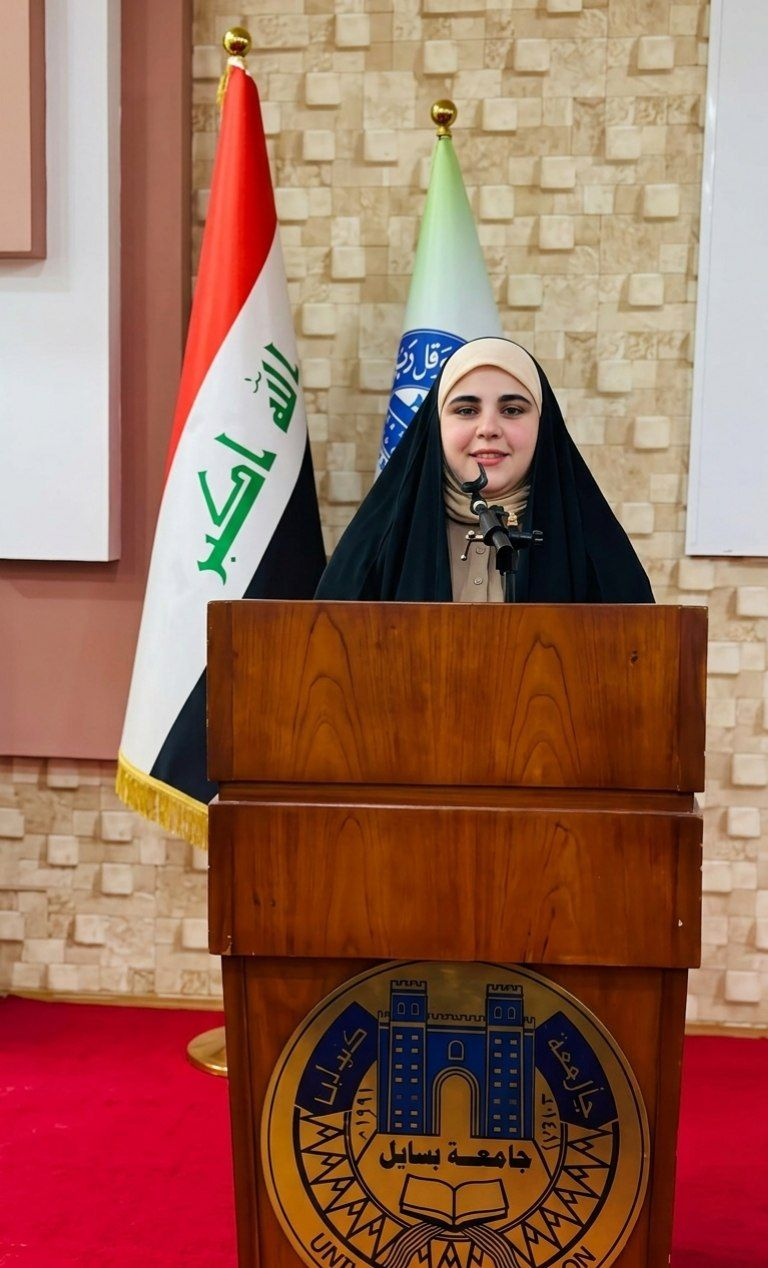
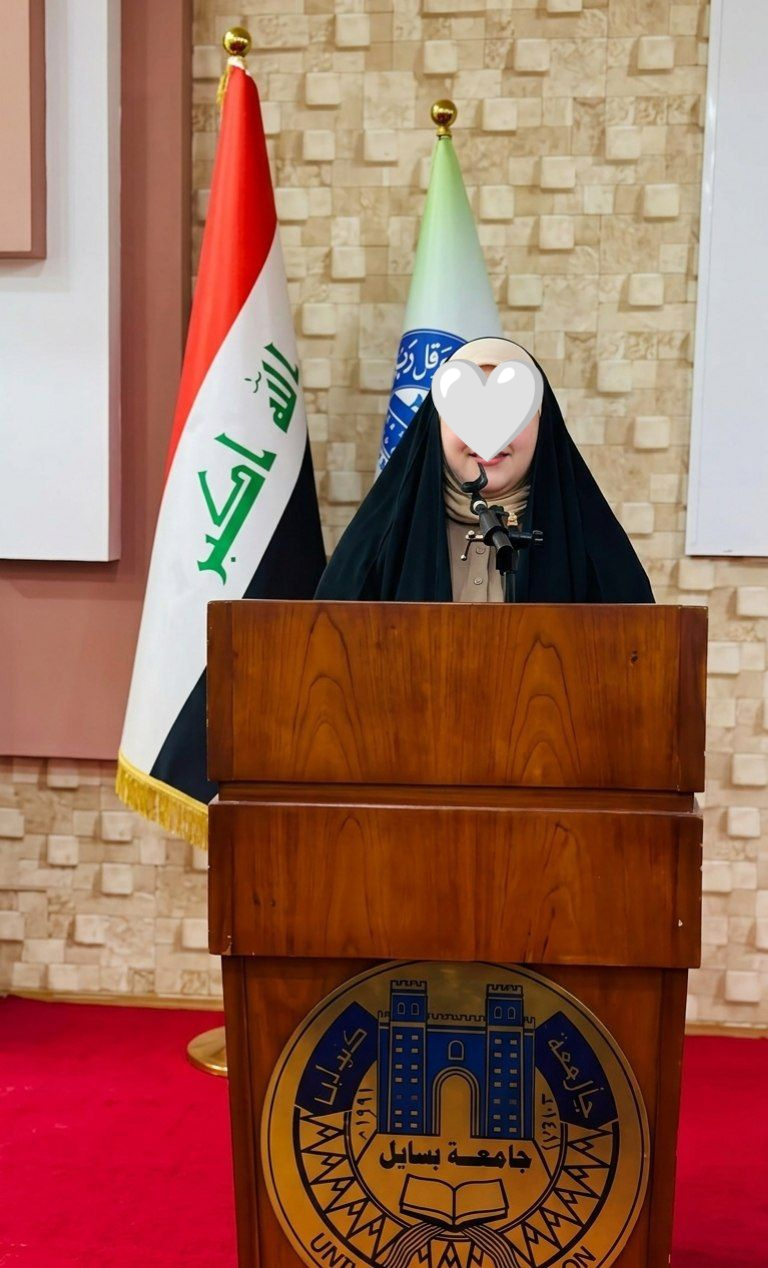
Add files via upload

Changed region(s): [[0.5625, 0.2768, 0.7188, 0.3691]]

diff --git a/index.html b/index.html
@@ -58,7 +58,7 @@
             </div>
 
             <h1 class="text-3xl sm:text-5xl font-black text-white mb-4 leading-tight">
-                وصلتكِ بكيج مفاجأة عيد الميلاد! 🎁
+                احلى معايدة عيد ميلاد 🎁
             </h1>
             <p class="text-slate-400 text-sm sm:text-base mb-8">
                 تم تحضير هذا الموقع خصيصاً بمناسبة عيد ميلادكِ الـ 22. انقري على الصندوق لفك التشفير وفتح المفاجأة! ✨
@@ -261,45 +261,7 @@
             </div>
         </section>
 
-        <!-- YAQEEN ENGINEER TERMINAL (INTERACTIVE CLI) -->
-        <section class="my-12">
-            <div class="glass-panel rounded-3xl p-6 sm:p-8 border border-slate-700">
-                <div class="flex items-center justify-between mb-4 pb-3 border-b border-slate-800">
-                    <div class="flex items-center gap-2">
-                        <div class="w-3 h-3 rounded-full bg-red-500"></div>
-                        <div class="w-3 h-3 rounded-full bg-yellow-500"></div>
-                        <div class="w-3 h-3 rounded-full bg-green-500"></div>
-                        <span class="text-xs font-mono text-slate-400 mr-2">YaqeenaOS_Terminal_v22.0.exe</span>
-                    </div>
-                    <span class="text-xs text-pink-400 font-mono">Bash / CLI Mode</span>
-                </div>
 
-                <div class="bg-slate-950 rounded-2xl p-4 sm:p-6 font-mono text-xs sm:text-sm text-emerald-400 min-h-[180px] shadow-inner space-y-3">
-                    <p class="text-slate-500"># مرحباً بك في موجه أوامر المهندسة يقين أحمد (شبكات جامعة بابل)</p>
-                    <p><span class="text-pink-400">yaqeen@babylon-net:~$</span> system_info --person</p>
-                    <p class="text-slate-300 pl-4">
-                        > Name: المهندسة يقين أحمد <br> > Age: 22 Years Old (9/9/2004) <br> > Major: هندسة شبكات الحاسوب 💻 <br> > Cute Level: Max (حجم مروس سمينة وكيوت 🍩) <br> > Status: جاهزة للتخرج والتألق 🎓
-                    </p>
-                    <div id="terminal-custom-output" class="text-pink-300 font-bold pl-4"></div>
-                </div>
-
-                <!-- Quick Command Buttons -->
-                <div class="mt-4 flex flex-wrap gap-2 justify-center sm:justify-start">
-                    <button onclick="runCommand('ping')" class="px-3 py-2 rounded-xl bg-slate-800 hover:bg-pink-600 text-xs font-mono text-slate-200 transition border border-slate-700">
-                        > ping yaqeen
-                    </button>
-                    <button onclick="runCommand('graduate')" class="px-3 py-2 rounded-xl bg-slate-800 hover:bg-purple-600 text-xs font-mono text-slate-200 transition border border-slate-700">
-                        > sudo graduate_now
-                    </button>
-                    <button onclick="runCommand('wish')" class="px-3 py-2 rounded-xl bg-slate-800 hover:bg-indigo-600 text-xs font-mono text-slate-200 transition border border-slate-700">
-                        > cat best_wishes.txt
-                    </button>
-                    <button onclick="runCommand('clear')" class="px-3 py-2 rounded-xl bg-slate-800 hover:bg-red-600 text-xs font-mono text-slate-200 transition border border-slate-700">
-                        > clear
-                    </button>
-                </div>
-            </div>
-        </section>
 
         <!-- POLAROID PHOTO GALLERY STUDIO -->
         <section class="my-14">
@@ -319,7 +281,7 @@
 
                 <!-- Card 1 -->
                 <div class="polaroid-card rounded-2xl transform sm:-rotate-2">
-                    <div class="w-full h-72 bg-slate-100 rounded-xl overflow-hidden relative group">
+                    <div class="w-full h-73 bg-slate-100 rounded-xl overflow-hidden relative group">
                         <img src="A.jpg" alt="يقين" class="w-full h-full object-cover gallery-img transition duration-500 group-hover:scale-110">
                         <div class="absolute inset-0 bg-gradient-to-t from-black/60 via-transparent to-transparent opacity-0 group-hover:opacity-100 transition flex items-end p-4 text-white text-xs font-bold">
                             المهندسة يقين - قسم الشبكات 💻
@@ -336,12 +298,12 @@
                     <div class="w-full h-72 bg-slate-100 rounded-xl overflow-hidden relative group">
                         <img src="D.jpg" alt="يقينة" class="w-full h-full object-cover gallery-img transition duration-500 group-hover:scale-110">
                         <div class="absolute inset-0 bg-gradient-to-t from-black/60 via-transparent to-transparent opacity-0 group-hover:opacity-100 transition flex items-end p-4 text-white text-xs font-bold">
-                            يقينة الكيوت والتختخة 🍩
+                            يقينة الكيوت 🍩
                         </div>
                     </div>
                     <div class="mt-4 text-center">
                         <span class="font-extrabold text-slate-900 text-lg block">يقينة الكيوت 🍩</span>
-                        <span class="text-xs text-slate-500 font-semibold">حجم مروس من اللطافة والطيبة</span>
+                        <span class="text-xs text-slate-500 font-semibold"></span>
                     </div>
                 </div>
 
@@ -369,6 +331,19 @@
                     <div class="mt-4 text-center">
                         <span class="font-extrabold text-slate-900 text-lg block"> يقينة البرشلونية (الفريق السيء) 🍩</span>
                         <span class="text-xs text-slate-500 font-semibold">مغرمة بفريق سيء المستوى والسمعة . </span>
+                    </div>
+                </div>
+                <!-- Card 5 -->
+                <div class="polaroid-card rounded-2xl transform sm:-rotate-1">
+                    <div class="w-full h-90 bg-slate-100 rounded-xl overflow-hidden relative group">
+                        <img src="B.jpg" alt="تخرج جامعة بابل" class="w-full h-full object-cover gallery-img transition duration-500 group-hover:scale-110">
+                        <div class="absolute inset-0 bg-gradient-to-t from-black/60 via-transparent to-transparent opacity-0 group-hover:opacity-100 transition flex items-end p-4 text-white text-xs font-bold">
+                            انيقة جامعة بابل
+                        </div>
+                    </div>
+                    <div class="mt-4 text-center">
+                        <span class="font-extrabold text-slate-900 text-lg block">الانيقة</span>
+                        <span class="text-xs text-slate-500 font-semibold">انيقة جامعة بابل</span>
                     </div>
                 </div>
             </div>
